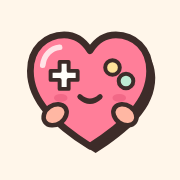
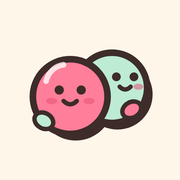
Switch the Hagu mark to Hug Buddies
Two round buddies hugging replace the heart controller across the logo,
wordmark, favicons, app icons and share image. The earlier heart mark and
the other concepts are kept in img/logo-options for reference.

Changed region(s): [[0.1389, 0.1667, 0.8889, 0.8611]]

diff --git a/index.html b/index.html
@@ -54,7 +54,7 @@
 
   <main>
     <section class="hero" aria-labelledby="hero-title">
-      <img class="hero-mark" src="img/logo.svg" alt="The Hagu mark: a heart-shaped game controller giving a hug" width="168" height="168">
+      <img class="hero-mark" src="img/logo.svg" alt="The Hagu mark: two round buddies hugging" width="168" height="168">
       <h1 id="hero-title">Games made<br>with <span class="hug">hugs</span></h1>
       <p class="tagline">
         A tiny family arcade of cozy browser games. No downloads, no ads,
